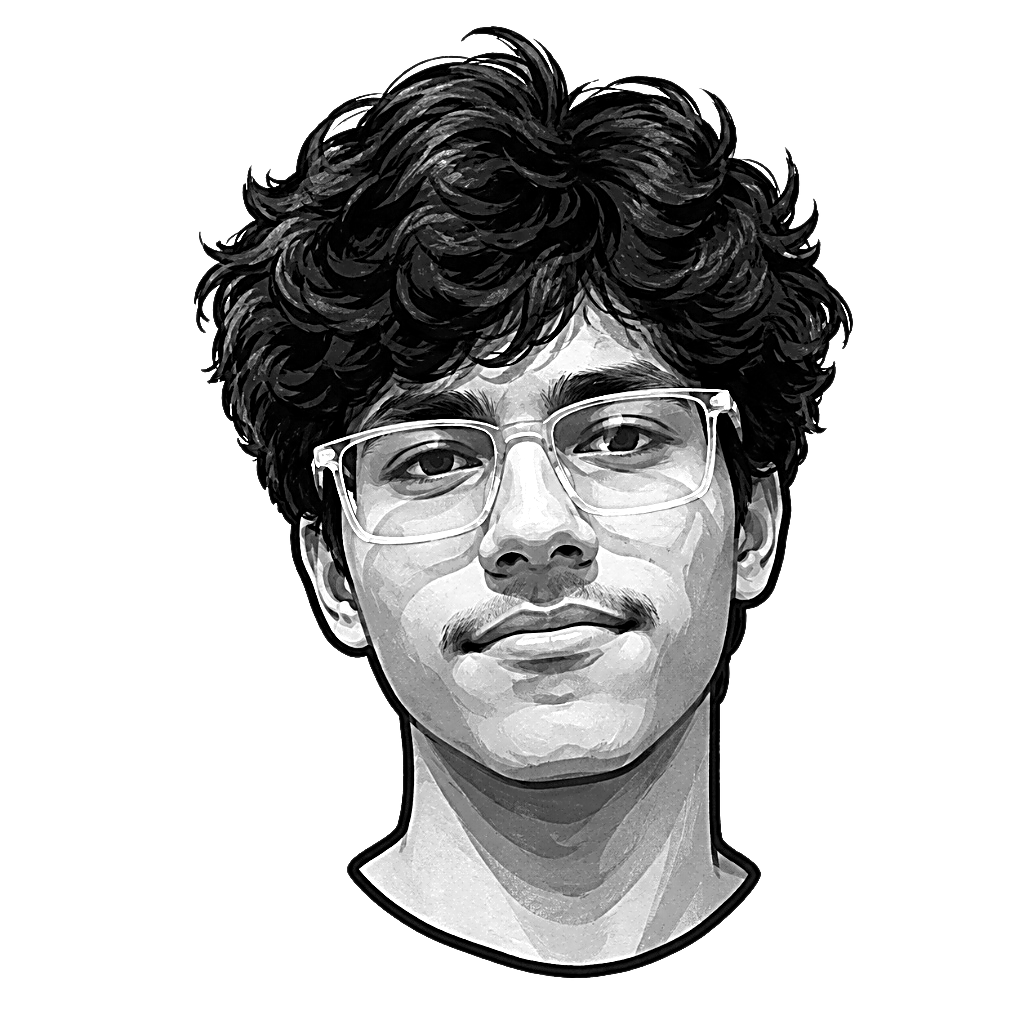
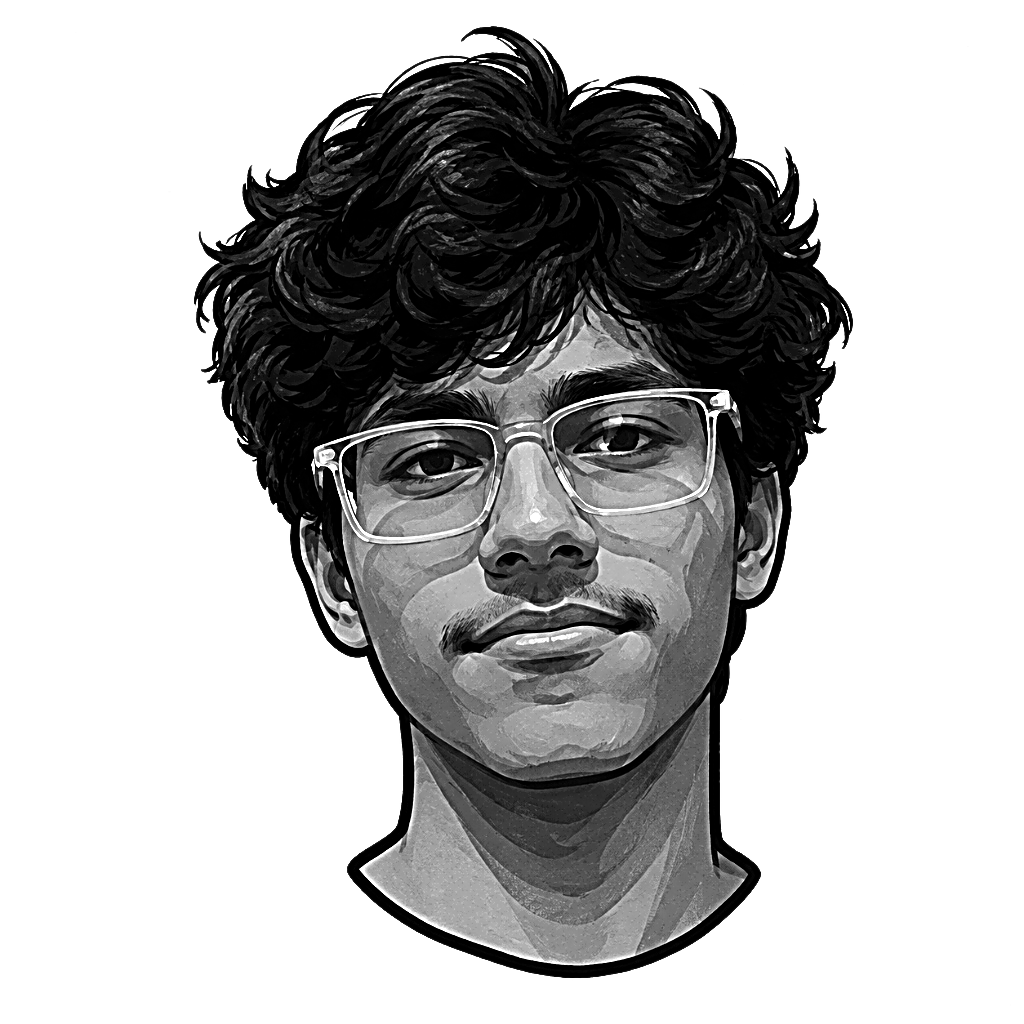
style: darken ASCII portrait with bold weight, deeper oxblood tones, and high character density

diff --git a/scripts/prep_photo.py b/scripts/prep_photo.py
@@ -1,10 +1,11 @@
 #!/usr/bin/env python3
 """
-Prepare the portrait image for clean, high-contrast ASCII conversion:
-  1. Remove background by detecting the uniform background color and thresholding
-  2. Enhance contrast, sharpness, and edge details so facial contours and glasses stay sharp
-  3. Ensure background is pure white (255) so it maps to blank spaces in ASCII output
-  4. Save as source-prepped.png
+Prepare the portrait image for clean, high-contrast, bold ASCII conversion:
+  1. Remove background cleanly
+  2. Enhance contrast, sharpness, and edge details
+  3. Apply tone curve to deepen midtones so the face is dark and solid
+  4. Ensure background is pure white (255)
+  5. Save as source-prepped.png
 """
 import os
 import sys
@@ -27,24 +28,27 @@ def prep():
     # Color distance from background
     dist = np.linalg.norm(arr - bg_color, axis=-1)
     
-    # Smooth mask slightly to prevent harsh stepped artifacts
-    raw_mask = (dist > 16.0).astype(np.float32)
-    mask_im = Image.fromarray((raw_mask * 255).astype(np.uint8)).filter(ImageFilter.GaussianBlur(radius=1.2))
+    # Smooth mask
+    raw_mask = (dist > 15.0).astype(np.float32)
+    mask_im = Image.fromarray((raw_mask * 255).astype(np.uint8)).filter(ImageFilter.GaussianBlur(radius=1.0))
     mask = np.array(mask_im).astype(np.float32) / 255.0
 
-    # Grayscale image with enhanced local contrast & sharpness
+    # Grayscale image with enhanced local contrast & strong edge sharpening
     gray_im = img.convert("L")
     gray_im = ImageOps.autocontrast(gray_im, cutoff=1)
-    gray_im = gray_im.filter(ImageFilter.UnsharpMask(radius=2.5, percent=160, threshold=2))
+    gray_im = gray_im.filter(ImageFilter.UnsharpMask(radius=3, percent=200, threshold=2))
     gray = np.array(gray_im).astype(np.float32)
 
-    # Tone stretch: push lighter face areas slightly brighter so sparser ASCII chars are chosen
-    p_low = np.percentile(gray[mask > 0.5], 2)
-    p_high = np.percentile(gray[mask > 0.5], 96)
-    tone = np.clip((gray - p_low) / (p_high - p_low + 1e-5), 0, 1) * 255.0
+    # Tone stretch: deepen midtones and shadows
+    p_low = np.percentile(gray[mask > 0.5], 1)
+    p_high = np.percentile(gray[mask > 0.5], 98)
+    tone = np.clip((gray - p_low) / (p_high - p_low + 1e-5), 0, 1)
+
+    # Apply power curve to give rich density to face and skin
+    darkened_tone = np.power(tone, 1.25) * 255.0
 
     # Subject onto pure white background
-    prepped = tone * mask + 255.0 * (1.0 - mask)
+    prepped = darkened_tone * mask + 255.0 * (1.0 - mask)
     out_im = Image.fromarray(np.clip(prepped, 0, 255).astype(np.uint8))
     
     out_im.save(OUT)

diff --git a/scripts/render_readme_cards.py b/scripts/render_readme_cards.py
@@ -155,7 +155,7 @@ def hero():
         for i, (y, txt) in enumerate(rows):
             portrait.append(
                 f'<text class="rt" style="animation-delay:{0.25 + i * 0.026:.3f}s" '
-                f'xml:space="preserve" x="20" y="{y}" fill="url(#portrait-grad)" font-size="8.8" '
+                f'xml:space="preserve" x="20" y="{y}" fill="url(#portrait-grad)" font-size="8.8" font-weight="700" '
                 f'textLength="800" lengthAdjust="spacing">{txt}</text>'
             )
 
@@ -172,10 +172,10 @@ def hero():
       keyTimes="0;.45;1" dur="7s" begin="1.6s" repeatCount="indefinite"/>
   </linearGradient>
   <linearGradient id="portrait-grad" x1="0" y1="0" x2="0" y2="1">
-    <stop offset="0%" stop-color="#3d050f"/>
-    <stop offset="35%" stop-color="{MAROON}"/>
-    <stop offset="70%" stop-color="{CRIMSON}"/>
-    <stop offset="100%" stop-color="#580816"/>
+    <stop offset="0%" stop-color="#140205"/>
+    <stop offset="30%" stop-color="#2d030b"/>
+    <stop offset="70%" stop-color="#4d0613"/>
+    <stop offset="100%" stop-color="#1c0206"/>
   </linearGradient>
   <linearGradient id="scanbeam-grad" x1="0" y1="0" x2="0" y2="1">
     <stop offset="0%" stop-color="{GOLD}" stop-opacity="0"/>

diff --git a/scripts/make_ascii_svg.py b/scripts/make_ascii_svg.py
@@ -20,10 +20,10 @@ CELL_H = CELL_W * 15 / 8
 ROWS = round(COLS * 8 / 15)
 RAMP = " .:-=+*#%@"  # light -> dark; leading space clears white background
 
-CONTRAST = 1.18
-BRIGHTNESS = 1.02
-GAMMA = 1.08
-WHITE_FLOOR = 0.85    # luminance above this threshold becomes blank space
+CONTRAST = 1.15
+BRIGHTNESS = 1.0
+GAMMA = 0.88
+WHITE_FLOOR = 0.92    # only background becomes blank space; subject retains full character coverage
 
 PAD = 20
 TITLEBAR_H = 30
@@ -93,7 +93,7 @@ def generate():
         delay = ry * STAGGER
         safe = html.escape(line)
         text = (f'<text xml:space="preserve" x="{PAD}" y="{y:.1f}" fill="{INK}" '
-                f'font-size="{font_size:.1f}" textLength="{ART_W}" lengthAdjust="spacing">{safe}</text>')
+                f'font-size="{font_size:.1f}" font-weight="700" textLength="{ART_W}" lengthAdjust="spacing">{safe}</text>')
 
         if STATIC:
             parts.append(text)
